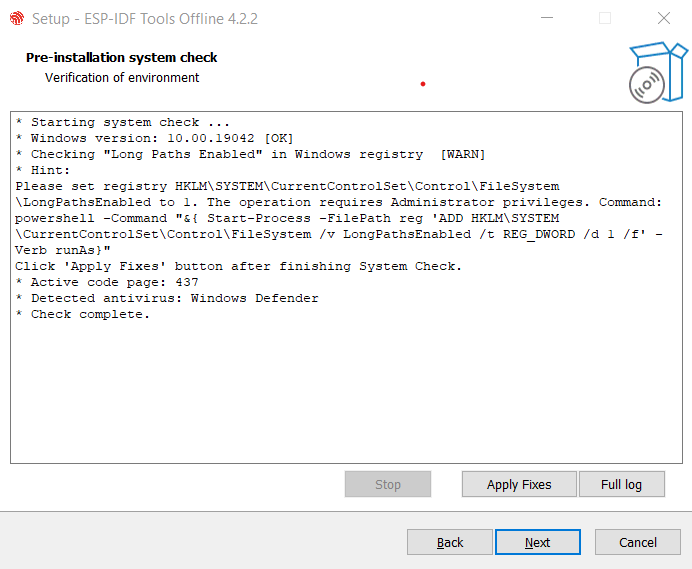
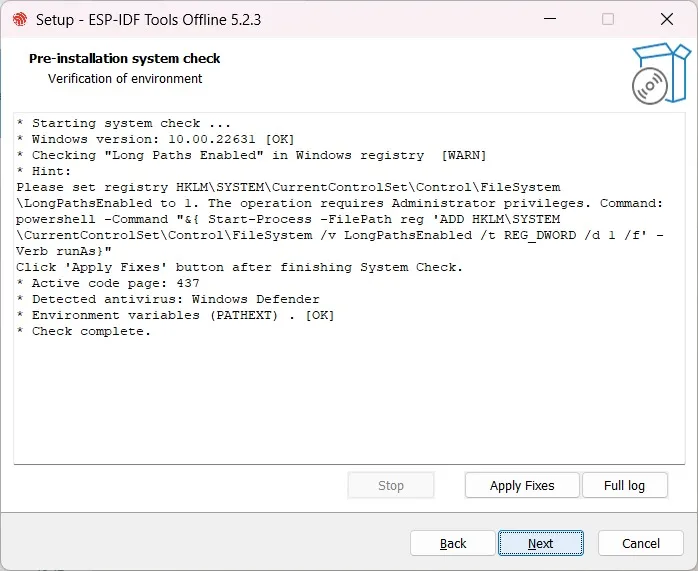
Update the Installation Instructions for newer version of ESP Toolchain (#156)
* Update the amazing installation script

* Added changes after the review

diff --git a/Installations.md b/Installations.md
@@ -7,7 +7,7 @@
 # For Windows
 The first step is to install the ESP-IDF v4.2. 
 
-## Step 1:Download the installer from [here](https://dl.espressif.com/dl/esp-idf/?idf=4.4)
+## Step 1:Download the installer from [here](https://dl.espressif.com/dl/esp-idf/?idf=5.2)
 Please download the **offline** version pointed by the
 arrow
 <p align="center">
@@ -49,23 +49,26 @@ We recommend to keep the default installation path and click next.
   <img src="./documentation/Assets/Installation/6.png">
 </p>
 
-### Step 6: Once you click On Finish, this is what you should be getting. 
+### Step 6: Once you click On Finish, this is what you should be getting.
 
 <p align="center">
-  <img src="./documentation/Assets/Installation/7.png">
+    <img src="./documentation/Assets/Installation/7.png">
 </p>
 
- ### Step 7: Open ESP-IDF 4.2 CMD which should be on your desktop
+### Step 7: Open ESP-IDF 5.2 PowerShell which should be on your desktop
 
 <p align="center">
   <img src="./documentation/Assets/Installation/esp-idf.jpeg">
 </p>
 
 ### Step 8: Cloning the Wall-E Git Repo
-To clone the Repo just execute the following command on ESP-IDF Command Prompt. We are making the project folder in Desktop 
-```sh
-cd %userprofile%\Desktop 
-git clone https://github.com/SRA-VJTI/Wall-E.git --recurse-submodules
+To clone the Repo just execute the following command on ESP-IDF Command Prompt. We are making the project folder in our home directory. 
+
+```powershell
+cd ~
+mkdir Projects
+cd Projects
+git clone https://github.com/SRA-VJTI/Wall-E --recursive --depth 1
 cd Wall-E
 ```
 
@@ -74,7 +77,7 @@ cd Wall-E
 </p>
 
 **Pro Tip**: 
-`cd %userprofile%\Desktop\Wall-E` takes you to the Wall-E directory which contains all the required code 
+`cd ~/Projects/Wall-E` takes you to the Wall-E directory which contains all the required code 
 
 ## For Linux 
 
@@ -164,18 +167,10 @@ ls
 </p>
 
 * For Windows -
-```sh
-cd %userprofile%\Desktop\Wall-E
+```powershell
+cd ~/Projects/Wall-E
 xcopy /e /i %IDF_PATH%\examples\get-started\hello_world hello_world
 ``` 
-<p align="center">
-  <img src="./documentation/Assets/Installation/10.jpeg">
-</p> 
-
-<p align="center">
-  <img src="./documentation/Assets/Installation/12.jpeg">
-</p> 
-
 
 ### Step 2 : Connect Your Device
 Connect your ESP32 board to the computer and check under what serial port the board is visible.
@@ -214,8 +209,8 @@ idf.py set-target esp32 #Command for Setting the Target
 idf.py menuconfig # Command for Opening the Configuration Menu
 ```
 * For Windows -
-```sh
-cd %userprofile%\Desktop\Wall-E\hello_world #Navigating to the file
+```powershell
+cd ~/Projects/Wall-E/1_led_blink #Navigating to the file
 idf.py set-target esp32 #Command for Setting the Target
 idf.py menuconfig #Command for Opening the Configuration
 ```
